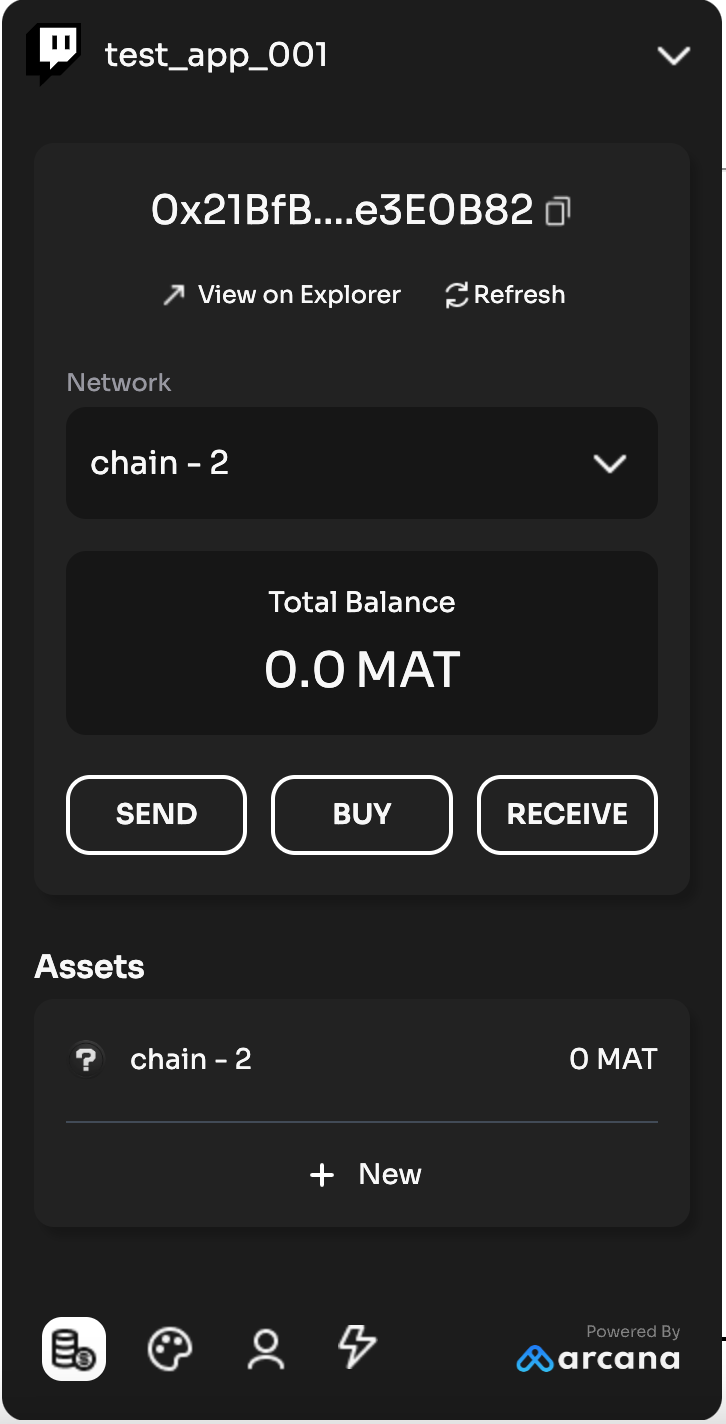
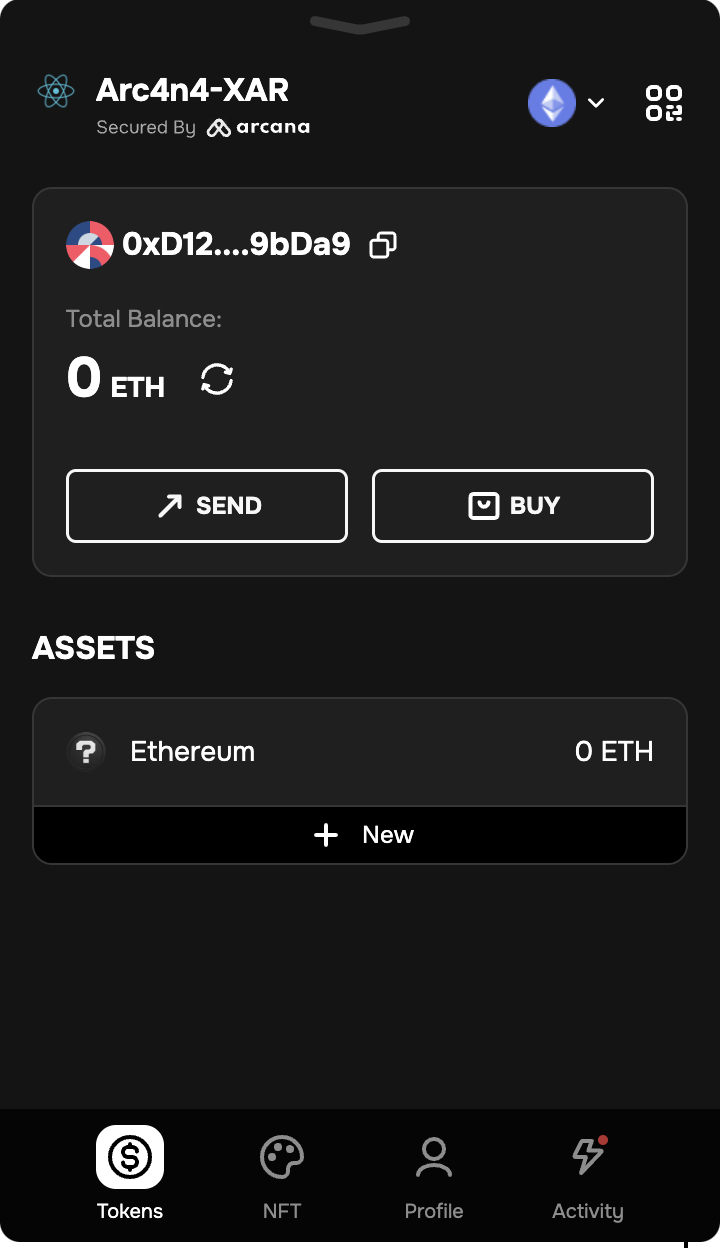
Refs: #AR-6085 wallet redesign related docs update

diff --git a/docs/howto/use-wallet-to-manage-tokens.md b/docs/howto/use-wallet-to-manage-tokens.md
@@ -31,7 +31,7 @@ Click the <img src="/img/icons/an_wallet_token_icon_light.png#only-light" width=
 
 Click **Refresh** to fetch the latest account balance. If you use the {{config.extra.arcana.wallet_name}} to send native or custom tokens, the account balance gets automatically updated once the transfer is processed.
 
-<img class="an-screenshots-noeffects" src="/img/an_wallet_home.png" width="20%"/><br></br><br></br>
+<img class="an-screenshots-noeffects" src="/img/an_wallet_home.png" width="35%"/><br></br><br></br>
 
 ## Add Custom Tokens
 
@@ -41,13 +41,13 @@ If you do not see your custom token already listed in the token asset list, clic
 
 A custom token specification UI is displayed in the wallet.
 
-<img class="an-screenshots-noeffects" src="/img/an_wallet_add_custom_token.png" width="20%"/><br></br><br></br>
+<img class="an-screenshots-noeffects" src="/img/an_wallet_add_custom_token.png" width="35%"/><br></br><br></br>
 
 Add the **Token Contract Address**. Once you add the address, the {{config.extra.arcana.wallet_name}} validates whether it is an ERC-20 standard custom token. After the contract is verified, the wallet automatically fetches the **Token Symbol** and the **Token Decimal** values as configured in the custom contract.
 
 Click **Save** to add the custom token. The newly added custom token will show up under the account balance section on the wallet.
 
-<img class="an-screenshots-noeffects" src="/img/an_wallet_custom_tokens.png" width="20%"/><br></br><br></br>
+<img class="an-screenshots-noeffects" src="/img/an_wallet_custom_tokens.png" width="35%"/><br></br><br></br>
 
 ## Select Native/Custom Token
 
@@ -55,29 +55,29 @@ Before sending tokens, users can specify whether they intend to transfer native 
 
 Click the <img src="/img/icons/an_wallet_token_icon_light.png#only-light" width="20"/><img src="/img/icons/an_wallet_token_icon_dark.png#only-dark" width="20"/> tab to view native and custom tokens screen.
 
-<img class="an-screenshots-noeffects" src="/img/an_wallet_choose_custom.png" width="20%"/><br></br><br></br>
+<img class="an-screenshots-noeffects" src="/img/an_wallet_choose_custom.png" width="35%"/><br></br><br></br>
 
 Use the drop-down list by clicking on the arrow next to the native token symbol and choose one of the custom tokens that are already added to the {{config.extra.arcana.wallet_name}}. 
  
 ## Send Tokens
 
-Click <img src="/img/icons/an_wallet_token_icon_light.png#only-light" width="20"/><img src="/img/icons/an_wallet_token_icon_dark.png#only-dark" width="20"/>tab in the wallet to view the tokens associated with the wallet account.
+Click <img src="/img/icons/an_wallet_token_icon_light.png#only-light" width="35"/><img src="/img/icons/an_wallet_token_icon_dark.png#only-dark" width="20"/>tab in the wallet to view the tokens associated with the wallet account.
 
-<img class="an-screenshots-noeffects" src="/img/an_wallet_home.png" width="20%"/><br></br><br></br>
+<img class="an-screenshots-noeffects" src="/img/an_wallet_home.png" width="35%"/><br></br><br></br>
 
 Click **Send** to initiate the send tokens workflow in the {{config.extra.arcana.wallet_name}} by bringing up the following screen:
 
-<img class="an-screenshots-noeffects" src="/img/an_wallet_send_inputs.png" width="20%"/><br></br><br></br>
+<img class="an-screenshots-noeffects" src="/img/an_wallet_send_inputs.png" width="35%"/><br></br><br></br>
 
 Choose the appropriate token that you wish to send from the dropdown list, enter the transfer amount, and requisite gas fees, and click **Proceed**. A preview screen shows the details of the send transaction. Click **Send** to confirm or click **Back** if you wish to change any transaction details. 
 
-<img class="an-screenshots-noeffects" src="/img/an_wallet_send.png" width="20%"/><br></br><br></br>
+<img class="an-screenshots-noeffects" src="/img/an_wallet_send.png" width="35%"/><br></br><br></br>
 
 ## Receive Tokens
 
-Click the <img src="/img/icons/an_wallet_token_icon_light.png#only-light" width="20"/><img src="/img/icons/an_wallet_token_icon_dark.png#only-dark" width="20"/> tab at the bottom left of the wallet to receive tokens from another wallet address. Click **Receive** and copy the QR code or the wallet address. Share it with the sender for receiving tokens in your account.  
+Click the <img src="/img/icons/an_wallet_token_icon_light.png#only-light" width="35"/><img src="/img/icons/an_wallet_token_icon_dark.png#only-dark" width="20"/> tab at the bottom left of the wallet to receive tokens from another wallet address. Click the QR icon <img src="/img/icons/an_wallet_qr_light.png#only-light" width="35"/><img src="/img/icons/an_wallet_qr_dark.png#only-dark" width="20"/> on the top right of the wallet and copy the QR code or the wallet address. Share it with the sender for receiving tokens in your account.  
 
-<img class="an-screenshots-noeffects" src="/img/an_wallet_receive_qr.png" width="20%"/><br></br><br></br>
+<img class="an-screenshots-noeffects" src="/img/an_wallet_receive_qr.png" width="35%"/><br></br><br></br>
 
 Click **Refresh** to see the updated account balance after the sender transaction is complete.
 
@@ -92,11 +92,7 @@ The wallet notification screen displays a list of different blockchain transacti
 - Send transactions for native or custom tokens
 - Contract Deployment
 
-<img class="an-screenshots-noeffects" src="/img/an_wallet_combined_notify.png" width="20%"/><br></br><br></br>
-
-You can view all activities in the list or filter them based on whether the blockchain transactions were initiated by the user or the app. Click on the filter icon and choose the desired option.
-
-<img class="an-screenshots-noeffects" src="/img/an_wallet_combined_notify_filter_nav_options.png" width="45%"/><br></br><br></br>
+<img class="an-screenshots-noeffects" src="/img/an_wallet_combined_notify.png" width="35%"/><br></br><br></br>
 
 To see details of a send transaction, click on the arrow to expand the view.
 

diff --git a/docs/howto/use-wallet-ui.md b/docs/howto/use-wallet-ui.md
@@ -231,11 +231,11 @@ The {{config.extra.arcana.wallet_name}} is displayed as an embedded wallet withi
 
 Right after a user authenticates, the wallet is displayed in its minimized state. 
 
-<img class="an-screenshots-noeffects" src="/img/an_wallet_min_light.png#only-dark" width="7%"/><img class="an-screenshots-noeffects" src="/img/an_wallet_min_dark.png#only-light" width="7%"/>
+<img class="an-screenshots-noeffects" src="/img/an_wallet_min_light.png#only-dark" width="15%"/><img class="an-screenshots-noeffects" src="/img/an_wallet_min_dark.png#only-light" width="15%"/>
 
 On clicking, it expands to display the wallet in its maximized state. It can be minimized again by clicking the '∨' icon on the top in the wallet UI. 
 
-<img class="an-screenshots-noeffects" src="/img/an_wallet_max_light.png#only-dark" width="20%"/><img class="an-screenshots-noeffects" src="/img/an_wallet_max_dark.png#only-light" width="20%"/>
+<img class="an-screenshots-noeffects" src="/img/an_wallet_max_light.png#only-dark" width="35%"/><img class="an-screenshots-noeffects" src="/img/an_wallet_max_dark.png#only-light" width="35%"/>
 
 ### View Transaction Summary & Details
 
@@ -263,7 +263,7 @@ Here is an example of a signature request notification summary:
 
 On clicking the topmost arrow icon, the user can see the signature request transaction notification details view:
 
-<img class="an-screenshots-noeffects" src="/img/an_wallet_req_sign.png" width="3%"/>
+<img class="an-screenshots-noeffects" src="/img/an_wallet_req_sign.png" width="35%"/>
 
 ### Logout
 

diff --git a/docs/howto/arcana-wallet/send.md b/docs/howto/arcana-wallet/send.md
@@ -36,11 +36,11 @@ Once the app is registered, configured, and integrated with the {{config.extra.a
 
 {% include "./code-snippets/auth_sendtransaction.md" %}
 
-The {{config.extra.arcana.wallet_name}} displays a transaction notification for user approval in response to the 'send token' transaction triggered by the app programmatically. The following figure shows the {{config.extra.arcana.wallet_name}} displaying the 'send-token' notification. It shows the token amount, gas charges, and recipient details. The user must approve the send token transaction before the tokens can be successfully sent to the recipient.
+The {{config.extra.arcana.wallet_name}} displays a transaction notification for user approval in response to the 'send token' transaction triggered by the app programmatically. The user must approve the send token transaction before the tokens can be successfully sent to the recipient.
 
-<img src="/img/an_wallet_send_inputs.png" width="300"/>
+<img src="/img/an_wallet_send_tx.png" width="300"/>
 
-The wallet displays a 'Proceed' button to allow for user confirmation before the send token transaction is executed on the configured blockchain network. 
+The wallet displays a 'Preview' button to allow for user confirmation before the send token transaction is executed on the configured blockchain network. 
 
 <img src="/img/an_wallet_send.png" width="300"/>
 

diff --git a/docs/howto/use-wallet-to-export-keys.md b/docs/howto/use-wallet-to-export-keys.md
@@ -26,15 +26,15 @@ This guide explains how a web3 user can export their private key by using the {{
 
 Make sure that the wallet is in the maximized state. Click the **User Profile** tab. Under the 'Private Key' section, you will see the **Export Key** option.
 
-<img class="an-screenshots-noeffects" src="/img/an_wallet_export_key_screen.png" width="20%"/>
+<img class="an-screenshots-noeffects" src="/img/an_wallet_export_key_screen.png" width="35%"/>
 
 When a user selects **Export Key**, you will see the following confirmation screen:
 
-<img class="an-screenshots-noeffects" src="/img/an_wallet_export_key_confirm.png" width="20%"/>
+<img class="an-screenshots-noeffects" src="/img/an_wallet_export_key_confirm.png" width="35%"/>
 
 If the user chooses to **Proceed**, two options are available to export the key. Users can either copy or download the private key from the wallet.  
 
-<img class="an-screenshots-noeffects" src="/img/an_wallet_export_key_copy.png" width="20%"/>
+<img class="an-screenshots-noeffects" src="/img/an_wallet_export_key_copy.png" width="35%"/>
 
 !!! note "Security and Privacy"
 

diff --git a/docs/howto/deploy-app.md b/docs/howto/deploy-app.md
@@ -52,7 +52,7 @@ After registering the app, configuring it for the 'Testnet' configuration profil
 
 An authenticated app user will see the following wallet UI when using the Arcana Testnet.
       
-<img alt="Testnet Wallet" src="/img/an_migration_testnet_wallet.png" width="20%"/>  
+<img alt="Testnet Wallet" src="/img/an_migration_testnet_wallet.png" width="35%"/>  
 
 #### Monitor Testnet Usage
 
@@ -92,7 +92,7 @@ After registering the app, configuring it for the 'Mainnet' configuration profil
 
 An authenticated app user will see the following wallet UI when using the Arcana Mainnet.
       
-<img alt="Testnet Wallet" src="/img/an_migration_mainnet_wallet.png" width="20%"/>  
+<img alt="Testnet Wallet" src="/img/an_migration_mainnet_wallet.png" width="35%"/>  
 
 #### Monitor Mainnet Usage
 

diff --git a/docs/howto/arcana-wallet/show.md b/docs/howto/arcana-wallet/show.md
@@ -34,7 +34,7 @@ A user must be successfully authenticated before calling the `showWallet()` func
 
 If the {{config.extra.arcana.wallet_name}} is not already displayed in the context of the application, `showWallet()` will bring up the following {{config.extra.arcana.wallet_name}} UI screen. If the {{config.extra.arcana.wallet_name}} is already displayed in the minimized state before the `showWallet``()`` function is called, then it will cause the minimized wallet state to change into the maximized {{config.extra.arcana.wallet_name}} UI.
 
-<img src="/img/an_wallet_balance.png" width="300"/>
+<img src="/img/an_wallet_home.png" width="300"/>
 
 **That is all!**  :material-party-popper:
 

diff --git a/docs/howto/arcana-wallet/watchasset.md b/docs/howto/arcana-wallet/watchasset.md
@@ -35,8 +35,6 @@ Add code for watching token assets associated with the logged in user's wallet a
 
 When a new asset is bought, sold or shared using the authenticated user's wallet address, the app can track the change in asset values and prompt the user to display the wallet with the updated values.
 
-<img src="/img/an_wallet_send_inputs.png" width="300"/>
-
 **That is all!**  :material-party-popper:
 
 *The web3 app is all set to programmatically watch assets associated with the {{config.extra.arcana.wallet_name}}.*

diff --git a/docs/tutorials/videos/index.md b/docs/tutorials/videos/index.md
@@ -1,6 +1,6 @@
 ---
 alias: index-video-tutorials
-title: 'List of Arcana Video Tutorials'
+title: 'Video Tutorials'
 description: 'Video tutorials for getting started with Arcana Auth product.'
 arcana:
   root_rel_path: ../..
